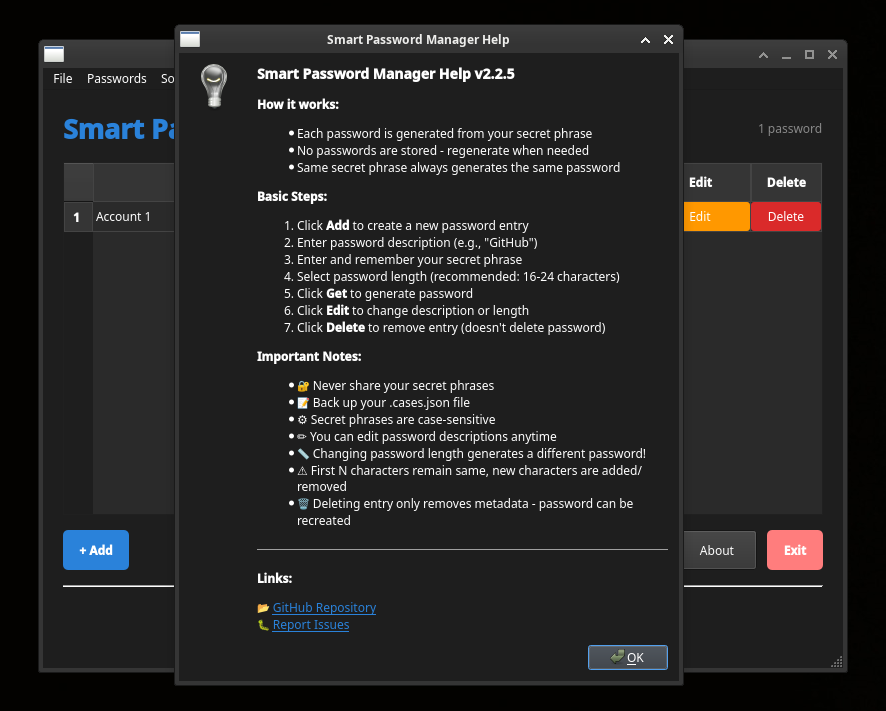
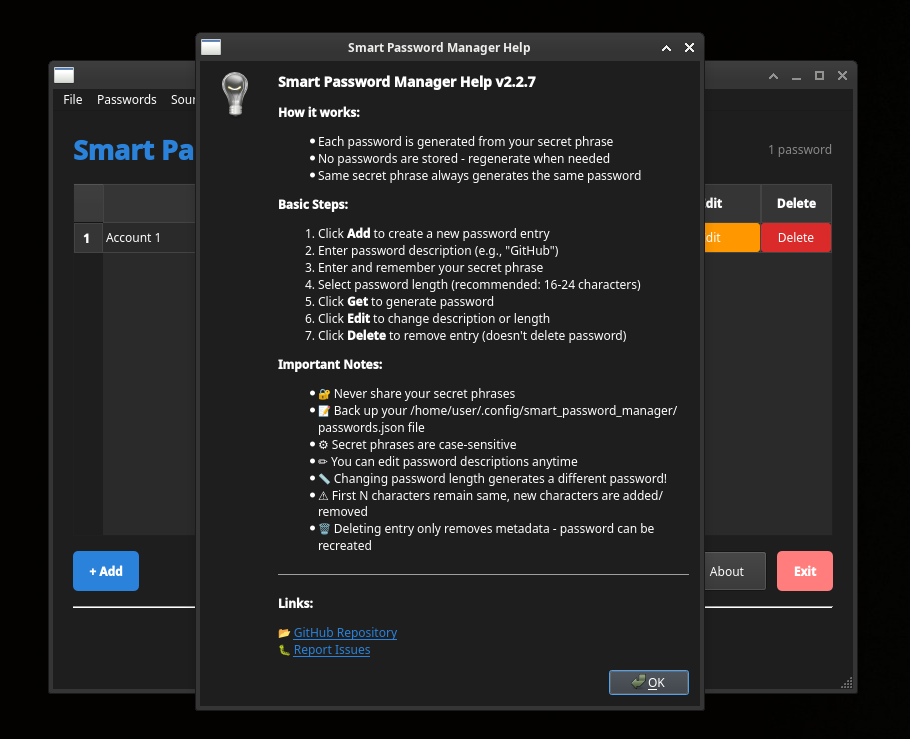
Smart Password Manager (Desktop) v2.2.7
- Upgrade to smartpasslib v2.2.0

diff --git a/core/utils/config.py b/core/utils/config.py
@@ -47,7 +47,7 @@ class Config:
             <p><b>Important Notes:</b></p>
             <ul>
             <li>🔐 Never share your secret phrases</li>
-            <li>📝 Back up your .cases.json file</li>
+            <li>📝 Back up your /home/user/.config/smart_password_manager/passwords.json file</li>
             <li>⚙ Secret phrases are case-sensitive</li>
             <li>✏ You can edit password descriptions anytime</li>
             <li>📏 Changing password length generates a different password!</li>

diff --git a/core/__init__.py b/core/__init__.py
@@ -1,5 +1,5 @@
 # Copyright (©) 2026, Alexander Suvorov. All rights reserved.
 """Cross-platform desktop manager for deterministic smart passwords. Generate, manage, and
 retrieve passwords without storing them. Your secret phrase is the only key you need."""
-__version__ = '2.2.6'
+__version__ = '2.2.7'
 __author__ = 'Alexander Suvorov'

diff --git a/README.md b/README.md
@@ -1,17 +1,17 @@
-# Smart Password Manager Desktop <sup>v2.2.6</sup>
+# Smart Password Manager Desktop <sup>v2.2.7</sup>
 
 ---
 
 **Cross-platform desktop manager for deterministic smart passwords. Generate, manage, and retrieve passwords without storing them. Your secret phrase is the only key you need.**
 
 ---
-| `Ctrl+Delete`  | Delete Local        | Remove local repository copy      |
 
 [![GitHub top language](https://img.shields.io/github/languages/top/smartlegionlab/smart-password-manager-desktop)](https://github.com/smartlegionlab/smart-password-manager-desktop)
 [![GitHub license](https://img.shields.io/github/license/smartlegionlab/smart-password-manager-desktop)](https://github.com/smartlegionlab/smart-password-manager-desktop/blob/master/LICENSE)
 [![GitHub release](https://img.shields.io/github/v/release/smartlegionlab/smart-password-manager-desktop)](https://github.com/smartlegionlab/smart-password-manager-desktop/)
 [![GitHub stars](https://img.shields.io/github/stars/smartlegionlab/smart-password-manager-desktop?style=social)](https://github.com/smartlegionlab/smart-password-manager-desktop/stargazers)
 [![GitHub forks](https://img.shields.io/github/forks/smartlegionlab/smart-password-manager-desktop?style=social)](https://github.com/smartlegionlab/smart-password-manager-desktop/network/members)
+![Platform](https://img.shields.io/badge/platform-windows%20%7C%20linux%20%7C%20macos-lightgrey)
 
 ---
 
@@ -31,7 +31,7 @@
 5. **Edit Metadata**: Update password descriptions and lengths
 6. **Copy to Clipboard**: One-click password copying for easy use
 7. **Verify Secrets**: Prove knowledge of secrets without exposing them
-8. **Cross-Platform Management**: Windows and Linux support with consistent interface
+8. **Cross-Platform Management**: Windows, Linux and macOS support with consistent interface
 
 **Key Features:**
 - ✅ **No Password Database**: Eliminates password storage completely
@@ -71,7 +71,7 @@
 
 ## 🔬 Technical Foundation
 
-Powered by **[smartpasslib v2.1.0+](https://github.com/smartlegionlab/smartpasslib)** - The core library for deterministic password generation.
+Powered by **[smartpasslib v2.2.0+](https://github.com/smartlegionlab/smartpasslib)** - The core library for deterministic password generation.
 
 **Key principle**: Instead of storing passwords, you store verification metadata. The actual password is regenerated on-demand from your secret phrase.
 
@@ -80,7 +80,7 @@ Powered by **[smartpasslib v2.1.0+](https://github.com/smartlegionlab/smartpassl
 - The actual password
 - Any reversible password data
 
-**What IS stored** (in `~/.cases.json`):
+**What IS stored** (in `~/.config/smart_password_manager/passwords.json`):
 - Public verification key (hash of secret)
 - Service description
 - Password length parameter
@@ -89,34 +89,21 @@ Powered by **[smartpasslib v2.1.0+](https://github.com/smartlegionlab/smartpassl
 
 ---
 
-## 🆕 What's New in v2.2.5
+## 📁 File Locations
 
-### Major Improvements:
+Starting from smartpasslib v2.2.0, configuration files are stored in:
 
-**New App's sounds:**
-- Added click sound to buttons
-- Added notify sound
-- Added error sound
-- Added about sound to about
+| Platform | Configuration Path |
+|----------|-------------------|
+| Linux | `~/.config/smart_password_manager/passwords.json` |
+| macOS | `~/.config/smart_password_manager/passwords.json` |
+| Windows | `C:\Users\Username\.config\smart_password_manager\passwords.json` |
 
-**Enhanced User Interface:**
-- Added menu bar
-- Added status bar
-- Added keyboard's shortcuts
-
-### New Features:
-
-**Keyboard's shortcuts:**
-```python
-# Use app with your keyboard
-# Look for shortcuts in "Help/Keyboard shortcuts"
-```
-
-**Improved UI:**
-- Added a menu bar for keyboard interaction
-- Added sounds "Enable/Disable" feature (Default: Disable)
-- Added app's about
-- Added a status bar for user awareness
+**Automatic Migration**:
+- Old `~/.cases.json` files are automatically migrated on first run
+- Original file is backed up as `~/.cases.json.bak`
+- Migration is one-time and non-destructive
+- All your existing passwords are preserved
 
 ---
 
@@ -280,7 +267,7 @@ python -m venv venv
 # Install PyInstaller in virtual environment
 pip install pyinstaller
 pip install PyQt5==5.15.9
-pip install smartpasslib==2.1.0
+pip install smartpasslib==2.2.0
 ```
 
 #### Step 6: Build Executable
@@ -336,7 +323,7 @@ Length Strategy:
 **Best Practices:**
 1. **Unique per service** - Different secret for each account type
 2. **Memorable but complex** - Phrases you can remember
-3. **Case-sensitive** - v2.2.6 enforces exact case matching
+3. **Case-sensitive** - v2.2.7 enforces exact case matching
 4. **No digital storage** - Keep only in memory
 5. **Backup plan** - Physical written backup in secure location
 
@@ -370,7 +357,7 @@ Length Strategy:
 - **[Web Smart Password Manager](https://github.com/smartlegionlab/smart-password-manager)** - Browser-based access
 
 ### Data Compatibility
-- Uses same `~/.cases.json` format as CLI tools
+- Uses same `~/.config/smart_password_manager/passwords.json` format as CLI tools
 - Compatible metadata with smartpasslib ecosystem
 - Consistent cryptographic operations across platforms
 
@@ -416,9 +403,6 @@ OF THIS SOFTWARE, EVEN IF ADVISED OF THE POSSIBILITY OF SUCH DAMAGE.
 ---
 
 ## ⚠ Security Warnings
-
-**Version Incompatibility**: v2.2.6 passwords are incompatible with v1.x.
-Never mix secret phrases across different versions.
 
 ### Secret Phrase Security
 
@@ -485,14 +469,6 @@ This is experimental software. It is not:
 Usage of this software constitutes your **FULL AND UNCONDITIONAL ACCEPTANCE** of this disclaimer. If you do not accept **ALL** terms and conditions, **DO NOT USE THE SOFTWARE.**
 
 **BY PROCEEDING, YOU ACKNOWLEDGE THAT YOU HAVE READ THIS DISCLAIMER IN ITS ENTIRETY, UNDERSTAND ITS TERMS COMPLETELY, AND ACCEPT THEM WITHOUT RESERVATION OR EXCEPTION.**
-
----
-
-**Version**: 2.2.6 | [**Author**](https://smartlegionlab.ru): [Alexander Suvorov](https://alexander-suvorov.ru)
-
----
-
-**Note**: This is v2.2.6. If migrating from v1.x, all passwords must be regenerated with new secret phrases.
 
 ---
 
